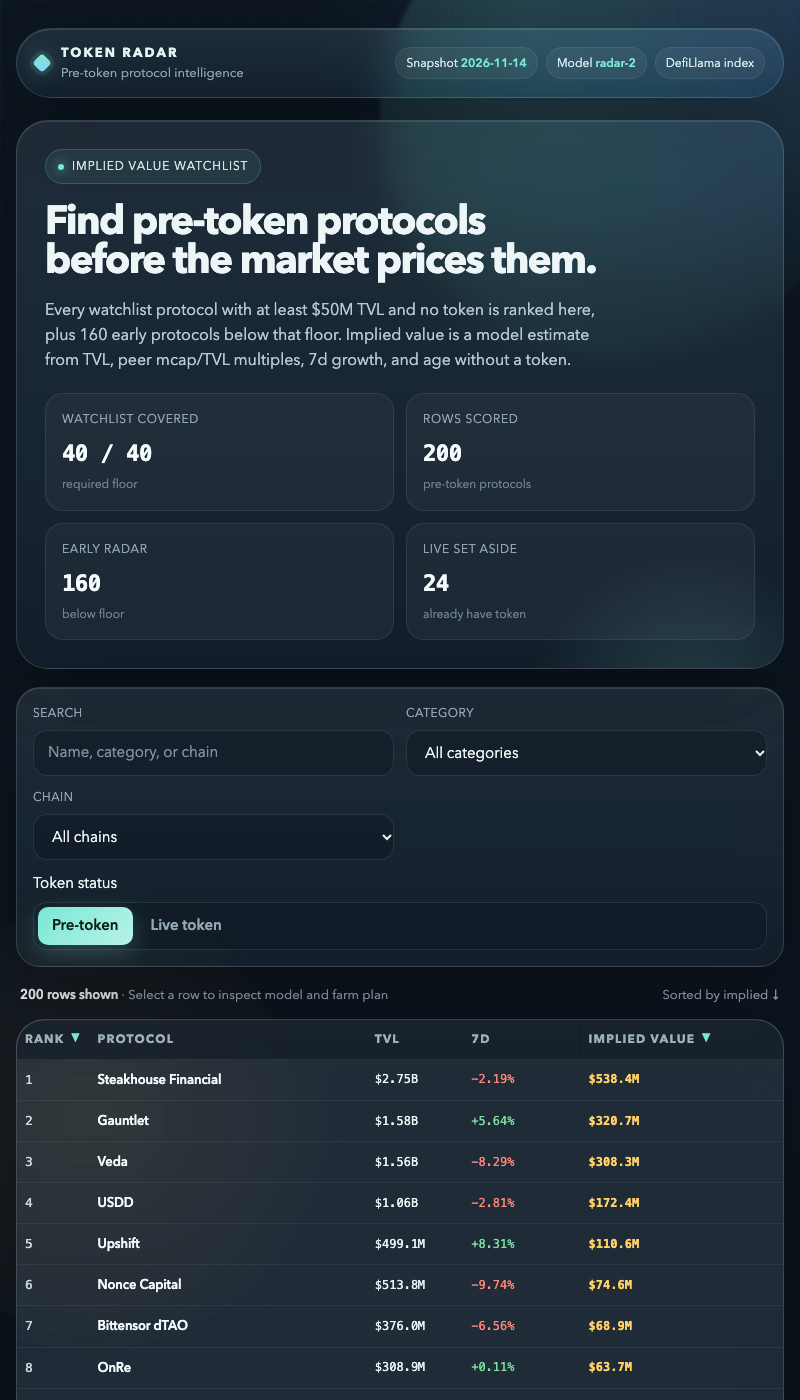
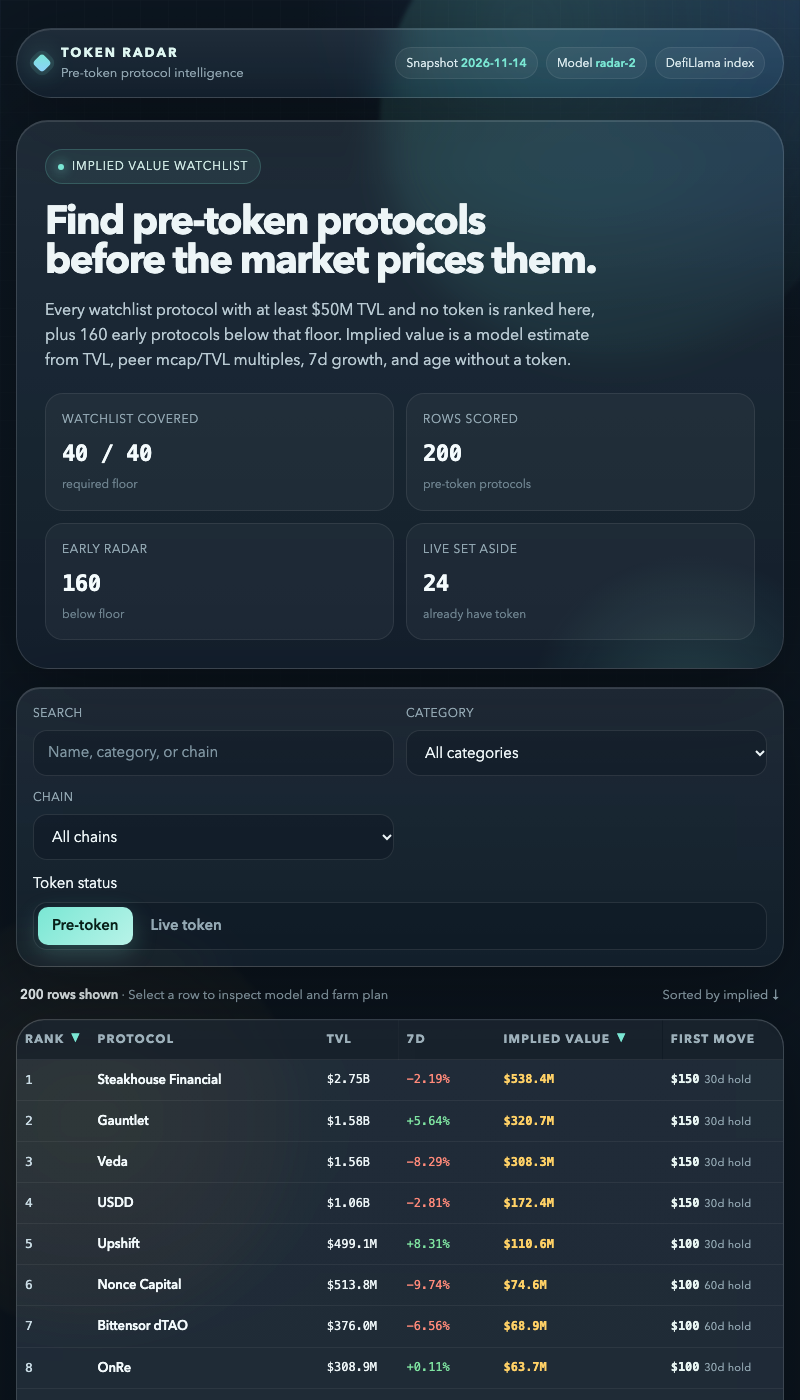
Add a first-move column and restrained motion to the radar board
Show the starting capital and hold time from each farm plan so the board answers what to do, not just what ranks highest, and add a radar sweep, staggered rows, counting stats and a sliding detail panel that all yield to reduced-motion.

🤖 Generated with Codebuff

Changed region(s): [[0.5938, 0.7371, 0.9375, 0.9829], [0.4062, 0.7371, 0.5625, 0.9829], [0.4062, 0.7371, 0.4375, 0.7679]]

diff --git a/dashboard/app.js b/dashboard/app.js
@@ -6,6 +6,22 @@
   if (!DATA) return;
   var app = document.getElementById('board');
   var state = { q: '', category: 'all', chain: 'all', tab: 'pre-token', sort: 'implied', dir: -1, selected: null };
+  var reduceMotion = !!(window.matchMedia && window.matchMedia('(prefers-reduced-motion: reduce)').matches);
+  var statsCounted = false;
+
+  function countUp(node, target, format) {
+    if (reduceMotion || !window.requestAnimationFrame) { node.textContent = format(target); return; }
+    var start = null;
+    var dur = 820;
+    function frame(now) {
+      if (start === null) start = now;
+      var t = Math.min(1, (now - start) / dur);
+      var eased = 1 - Math.pow(1 - t, 3);
+      node.textContent = format(Math.round(target * eased));
+      if (t < 1) window.requestAnimationFrame(frame);
+    }
+    window.requestAnimationFrame(frame);
+  }
 
   function fmtUsd(n) {
     if (n === null || n === undefined || !isFinite(n)) return 'n/a';
@@ -178,23 +194,28 @@
 
   function hero() {
     return el('section', { class: 'hero glass' },
+      el('div', { class: 'radar-sweep', 'aria-hidden': 'true' }),
       el('div', null,
         el('div', { class: 'kicker', text: 'Implied value watchlist' }),
         el('h1', { text: 'Find pre-token protocols before the market prices them.' }),
         el('p', { text: 'Every watchlist protocol with at least $' + Math.round(DATA.floor_usd / 1e6) + 'M TVL and no token is ranked here, plus ' + DATA.early_size + ' early protocols below that floor. Implied value is a model estimate from TVL, peer mcap/TVL multiples, 7d growth, and age without a token.' })
       ),
       el('div', { class: 'stats-grid' },
-        statCard('Watchlist covered', DATA.watchlist_size + ' / ' + DATA.watchlist_size, 'required floor'),
-        statCard('Rows scored', String(DATA.board_size), 'pre-token protocols'),
-        statCard('Early radar', String(DATA.early_size), 'below floor'),
-        statCard('Live set aside', String(DATA.live_size), 'already have token')
+        statCard('Watchlist covered', DATA.watchlist_size + ' / ' + DATA.watchlist_size, 'required floor', DATA.watchlist_size, function (n) { return n + ' / ' + n; }),
+        statCard('Rows scored', String(DATA.board_size), 'pre-token protocols', DATA.board_size, null),
+        statCard('Early radar', String(DATA.early_size), 'below floor', DATA.early_size, null),
+        statCard('Live set aside', String(DATA.live_size), 'already have token', DATA.live_size, null)
       )
     );
   }
-  function statCard(label, value, note) {
+  function statCard(label, value, note, countTo, format) {
+    var b = el('b', { text: value });
+    if (!statsCounted && typeof countTo === 'number') {
+      countUp(b, countTo, format || function (n) { return String(n); });
+    }
     return el('div', { class: 'stat' },
       el('span', { text: label }),
-      el('b', { text: value }),
+      b,
       el('small', { text: note })
     );
   }
@@ -265,7 +286,7 @@
     }
     var max = list.reduce(function (m, r) { return Math.max(m, r.implied_value_usd || 0); }, 1);
     var tbody = el('tbody');
-    list.forEach(function (r) {
+    list.forEach(function (r, i) {
       var growth = r.change_7d === null ? 'n/a' : fmtPct(r.change_7d);
       var growthClass = r.change_7d === null ? '' : r.change_7d >= 0 ? 'pos' : 'neg';
       var tr = el('tr', {
@@ -287,8 +308,16 @@
           el('div', { class: 'bar', 'aria-hidden': 'true' }, el('i', { style: 'width:' + Math.max(3, Math.round((r.implied_value_usd / max) * 100)) + '%' })),
           el('span', { class: 'num', text: fmtUsd(r.implied_value_usd) })
         )),
+        el('td', { class: 'move-col' }, el('div', { class: 'move-cell', title: 'Capital and hold time from this row\u2019s farm plan' },
+          el('b', { text: fmtUsd(capitalFor(r)) }),
+          el('span', { text: holdDaysFor(r.age_days) + 'd hold' })
+        )),
         el('td', { class: 'status-col' }, el('span', { class: 'status-pill', text: 'no token' }))
       );
+      if (i < 24 && !reduceMotion) {
+        tr.className = 'row-in';
+        tr.style.animationDelay = (i * 18) + 'ms';
+      }
       tbody.appendChild(tr);
     });
 
@@ -304,6 +333,7 @@
             sortHeader('age', 'Age', 'age-col'),
             sortHeader('peer', 'Peer x', 'peer-col'),
             sortHeader('implied', 'Implied value'),
+            el('th', { scope: 'col', class: 'move-col', text: 'First move' }),
             el('th', { scope: 'col', class: 'status-col', text: 'Status' })
           )),
           tbody
@@ -459,6 +489,7 @@
     app.appendChild(shell);
     if (!dialog.isConnected) app.appendChild(dialog);
     app.setAttribute('aria-busy', 'false');
+    statsCounted = true;
     if (state.selected) {
       var row = DATA.rows.filter(function (r) { return r.slug === state.selected; })[0];
       if (row) openDetail(row.slug);

diff --git a/dashboard/app.css b/dashboard/app.css
@@ -209,6 +209,10 @@ tbody tr:last-child td { border-bottom: 0; }
 .pos { color: #7ee2a0; }
 .neg { color: var(--danger); }
 .peer { color: #b8cad3; }
+.move-col { white-space: nowrap; }
+.move-cell { display: grid; gap: 3px; }
+.move-cell b { font-family: var(--font-num); font-size: 13px; font-weight: 600; color: #eaf7f4; letter-spacing: -0.01em; }
+.move-cell span { font-size: 11px; color: var(--muted); letter-spacing: 0.02em; }
 .implied-cell { display: flex; align-items: center; gap: 12px; min-width: 160px; }
 .implied-cell .num { min-width: 88px; color: var(--value); font-weight: 550; }
 .bar {
@@ -297,6 +301,25 @@ tbody tr:last-child td { border-bottom: 0; }
 .steps b { display: block; font-size: 14px; font-weight: 550; line-height: 1.5; color: #ebf6f9; margin-bottom: 4px; }
 .steps .cost { display: block; font-size: 12px; line-height: 1.5; color: var(--muted); font-family: var(--font-num); }
 
+@keyframes sweep {
+  0% { transform: translateX(-30%) skewX(-10deg); opacity: 0; }
+  18% { opacity: 0.7; }
+  100% { transform: translateX(320%) skewX(-10deg); opacity: 0; }
+}
+.radar-sweep {
+  position: absolute; top: -30%; left: 0; width: 34%; height: 160%; z-index: 0; pointer-events: none;
+  background: linear-gradient(90deg, transparent, rgba(122,231,212,0.10) 42%, rgba(122,231,212,0.34) 50%, rgba(122,231,212,0.10) 58%, transparent);
+  filter: blur(6px); opacity: 0;
+  animation: sweep 1250ms cubic-bezier(0.22, 0.61, 0.36, 1) 120ms 1 both;
+}
+.hero > div:not(.radar-sweep) { position: relative; z-index: 1; }
+@keyframes rowIn { from { opacity: 0; transform: translateY(7px); } to { opacity: 1; transform: none; } }
+tbody tr.row-in { animation: rowIn 340ms cubic-bezier(0.2, 0.7, 0.3, 1) both; }
+@keyframes detailIn { from { opacity: 0; transform: translateY(16px) scale(0.985); } to { opacity: 1; transform: none; } }
+@keyframes backdropIn { from { opacity: 0; } to { opacity: 1; } }
+.detail[open] .detail-shell { animation: detailIn 280ms cubic-bezier(0.2, 0.7, 0.3, 1) both; }
+.detail[open]::backdrop { animation: backdropIn 280ms ease-out both; }
+
 .live-table { min-width: 760px; }
 @media (max-width: 860px) {
   table, .live-table { min-width: 0; width: 100%; }
@@ -307,6 +330,9 @@ tbody tr:last-child td { border-bottom: 0; }
   .implied-cell { min-width: 0; gap: 6px; }
   .implied-cell .bar { display: none; }
   .peer-col, .status-col, .age-col { display: none; }
+  .move-cell { display: flex; gap: 5px; align-items: baseline; }
+  .move-cell b { font-size: 12px; }
+  .move-cell span { font-size: 11px; }
   .rank-cell { width: 32px; }
 }
 @media (max-width: 1080px) {

diff --git a/dashboard/index.html b/dashboard/index.html
@@ -5,7 +5,7 @@
 <meta name="viewport" content="width=device-width, initial-scale=1">
 <meta name="color-scheme" content="dark">
 <title>Token Radar: pre-token protocols ranked by implied value</title>
-<link rel="stylesheet" href="app.css?v=2">
+<link rel="stylesheet" href="app.css?v=3">
 </head>
 <body>
 <a class="skip" href="#board">Skip to the board</a>
@@ -16,6 +16,6 @@
 </div>
 <main id="board" tabindex="-1" aria-busy="true"></main>
 <script src="../data.js"></script>
-<script src="app.js"></script>
+<script src="app.js?v=3"></script>
 </body>
 </html>
